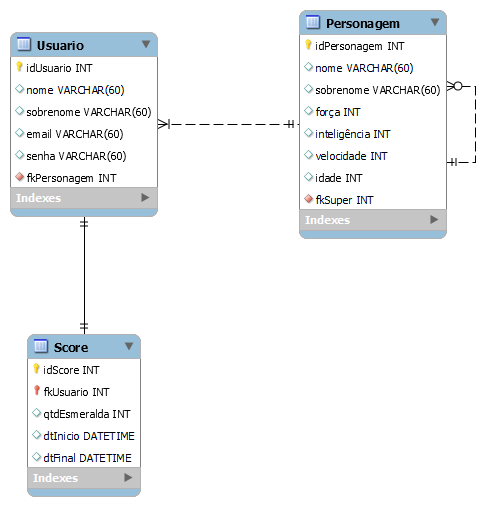
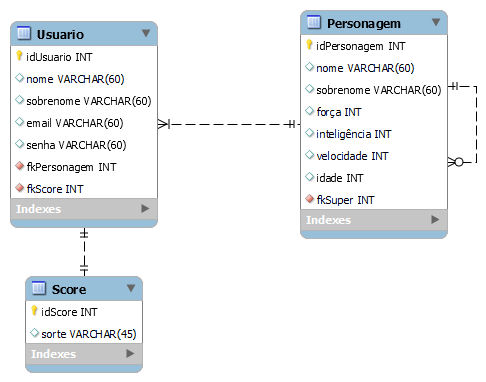
atualizado tudo

Changed region(s): [[0.0, 0.0, 0.9588, 1.0], [0.9278, 0.3168, 0.9897, 0.3455]]

diff --git a/Site Sonic/public/sorte.html b/Site Sonic/public/sorte.html
@@ -8,9 +8,9 @@
     <meta name="viewport" content="width=device-width, initial-scale=1.0">
     <title>Projeto Sonic | Teste de Sorte</title>
 
-    <link rel="stylesheet" href="../public/css/style.css">
+    <link rel="stylesheet" href="./css/style.css">
     <link rel="preconnect" href="https://fonts.gstatic.com">
-    <script src="../js/funcoes.js"></script>
+    <script src="./js/funcoes.js"></script>
 </head>
 
 <!--validarSessao(),-->
@@ -47,11 +47,114 @@
             <div class="btn-logout" onclick="limparSessao()">
                 <h3>Sair</h3>
             </div>
-
         </div>
     </div>
-    
+
+    <div class="right-square">
+        
+        <div class="noticias">
+            
+            <span id="span_btn" style="display: block;">
+            <button class="btn" onclick="btn_sorte()">Clique Aqui!</button>
+            </span>
+
+            <span id="span_msg" style="display: none;"></span></span>    
+
+        </div>
+</div>
     
 </body>
 
 </html>
+
+<script>
+
+
+    function btn_sorte() {
+
+        var x = [];
+        var y = Number(0);
+        var media = Number(0);
+
+        span_btn.style.display = `none`
+        span_msg.style.display = `block`
+
+        for (let i = 0; i < 3; i++) {
+            y = parseInt(Math.random()*100).toFixed(1) 
+            x.push(y)
+            span_msg.innerHTML += `<br>Seu ${i+1}° número foi ${x[0+i]}`
+        }
+
+        media = (Number(x[0]) + Number(x[1]) + Number(x[2])) / 3
+
+        span_msg.innerHTML += `<br>Sua media foi de ${media.toFixed(1)}`
+
+        //obterDadosGrafico(1)
+
+
+    }
+
+// ---------------------------------------- GRÁFICO ------------------------------------------------------ //
+
+function obterDadosGrafico(idUsuario) {
+        
+        fetch(`/medidas/ultimas/${idUsuario}`, { cache: 'no-store' }).then(function (response) {
+            if (response.ok) {
+                response.json().then(function (resposta) {
+                    console.log(`Dados recebidos: ${JSON.stringify(resposta)}`);
+                    resposta.reverse();
+
+                    plotarGrafico(resposta, idUsuario);
+                });
+            } else {
+                console.error('Nenhum dado encontrado ou erro na API');
+            }
+        })
+            .catch(function (error) {
+                console.error(`Erro na obtenção dos dados p/ gráfico: ${error.message}`);
+            });
+    }
+
+    function plotarGrafico(resposta, idUsuario) {
+        console.log('iniciando plotagem do gráfico...');
+
+        var dados = {
+            type: 'bar',
+            labels: [],
+                datasets: [{
+                    label: 'Resultado da Sorte',
+                    backgroundColor: ['grey','red','green', 'blue','yellow', 'purple', 'orange', 'pink', 'gray', 'black', 'violet'],
+                    borderColor: [],
+                    data: [],
+                }]
+        };
+
+        for (i = 0; i < resposta.length; i++) {
+            var registro = resposta[i];
+            dados.labels.push(registro.sorte);
+            dados.datasets[0].data.push(registro.Testes);
+        }
+
+        console.log(JSON.stringify(dados));
+
+        var ctx = document.getElementById('canvas_grafico').getContext('2d');
+        window.myChart = new Chart(ctx, {
+            type: "bar",
+            data: dados,
+            options: {
+                scales: {
+                    yAxes: [
+                        {
+                            ticks: {
+                                beginAtZero: true,
+                            },
+                        },
+                    ],
+                },
+            },
+        });
+    }
+
+
+
+</script>

diff --git a/Site Sonic/public/noticias.html b/Site Sonic/public/noticias.html
@@ -8,9 +8,9 @@
     <meta name="viewport" content="width=device-width, initial-scale=1.0">
     <title>Projeto Sonic | Noticias</title>
 
-    <link rel="stylesheet" href="../public/css/style.css">
+    <link rel="stylesheet" href="./css/style.css">
     <link rel="preconnect" href="https://fonts.gstatic.com">
-    <script src="../js/funcoes.js"></script>
+    <script src="./js/funcoes.js"></script>
 </head>
 
 <!--validarSessao(),-->
@@ -23,7 +23,7 @@
             <h1>Projeto Sonic</h1>
 
             <div class="hello">
-                <h3>Seja Muito Bem Vindo, <span id="b_usuario">usuário</span>!!!</h3>
+                <h3>Seja Muito Bem Vindo, <span id="b_usuario"></span>!!!</h3>
             </div>
 
             <div class="btn-nav-white">
@@ -51,7 +51,11 @@
     </div>
 
     <div class="right-square">
-    kjzcnkjjzxlkjcxcnkzxjczxczxjcnzxjkczxcnzxjcbzxkjcnxz
+        
+            <div class="noticias">
+                <h1>Trailer Sonic Frontiers</h1>
+                <iframe width="560" height="315" src="https://www.youtube.com/embed/RRkKZG1z9PY" title="YouTube video player" frameborder="0" allow="accelerometer; autoplay; clipboard-write; encrypted-media; gyroscope; picture-in-picture" allowfullscreen></iframe>
+            </div>
     </div>
     
 </body>

diff --git a/Site Sonic/src/models/medidaModel.js b/Site Sonic/src/models/medidaModel.js
@@ -1,6 +1,6 @@
 var database = require("../database/config");
 
-function buscarUltimasMedidas(idAquario, limite_linhas) {
+function buscarUltimasMedidas(sorte) {
     
     instrucaoSql = ''
     
@@ -14,14 +14,7 @@ function buscarUltimasMedidas(idAquario, limite_linhas) {
                     where fk_aquario = ${idAquario}
                     order by id desc`;
     } else if (process.env.AMBIENTE_PROCESSO == "desenvolvimento") {
-        instrucaoSql = `select 
-                        temperatura, 
-                        umidade, 
-                        momento,
-                        DATE_FORMAT(momento,'%H:%i:%s') as momento_grafico
-                    from medida
-                    where fk_aquario = ${idAquario}
-                    order by id desc limit ${limite_linhas}`;
+        instrucaoSql = `SELECT SUM(score.sorte) AS Sorte, count(idUsuario) AS 'Testes' FROM score JOIN Usuario ON fkScore = idScore group by fkScore;`
     } else {
         console.log("\nO AMBIENTE (produção OU desenvolvimento) NÃO FOI DEFINIDO EM app.js\n");
         return

diff --git a/Site Sonic/public/css/style.css b/Site Sonic/public/css/style.css
@@ -426,11 +426,42 @@ body::-webkit-scrollbar-thumb {
 }
 
 .right-square{
-  color: black;
   margin-left: 25%;
-  background-color: white;
-  height: 650px;
+  height: 615px;
   width: 74.5%;
   border: blue 3px solid;
+  background-image: url('../assets/imgs/noticias-background.jpg');
+  background-size: 100%;
+  display: flex;
+  justify-content: center;
+  align-items: center; 
+}
 
+.noticias{
+    background-color: rgba(0, 0, 0, 0.6);
+    margin-left: 50px;
+    width: 75%;
+    height: 85%;
+    border: yellow 3px solid;
+    display: flex;
+    flex-direction: row;
+    justify-content: center;
+    border-radius: 15px;
+    color: white;
+    font-size: 25px;
+    flex-wrap: wrap;
+}
+
+.jogar{
+  background-color: rgba(0, 0, 0, 0.6);
+  margin-left: 50px;
+  width: 75%;
+  height: 85%;
+  border: yellow 3px solid;
+  display: flex;
+  flex-direction: row;
+  justify-content: center;
+  color: white;
+  font-size: 25px;
+  flex-wrap: wrap;
 }

diff --git a/Site Sonic/public/jogar.html b/Site Sonic/public/jogar.html
@@ -8,9 +8,9 @@
     <meta name="viewport" content="width=device-width, initial-scale=1.0">
     <title>Projeto Sonic | Minigames</title>
 
-    <link rel="stylesheet" href="../public/css/style.css">
+    <link rel="stylesheet" href="./css/style.css">
     <link rel="preconnect" href="https://fonts.gstatic.com">
-    <script src="../js/funcoes.js"></script>
+    <script src="./js/funcoes.js"></script>
 </head>
 
 <!--validarSessao(),-->
@@ -49,6 +49,13 @@
             </div>
         </div>
     </div>
+
+    <div class="right-square">
+        
+        <div class="jogar">
+            <iframe src="https://www.retrogames.cc/embed/17236-sonic-the-hedgehog-2-world-rev-a.html" width="100%" height="100%" frameborder="no" allowfullscreen="true" webkitallowfullscreen="true" mozallowfullscreen="true" scrolling="no"></iframe>
+        </div>
+</div>
 
     
 </body>

diff --git a/Site Sonic/src/controllers/medidaController.js b/Site Sonic/src/controllers/medidaController.js
@@ -2,13 +2,11 @@ var medidaModel = require("../models/medidaModel");
 
 function buscarUltimasMedidas(req, res) {
 
-    const limite_linhas = 7;
+    var sorte = req.params.sorte;
 
-    var idAquario = req.params.idAquario;
+    console.log(`Recuperando as ultimas  medidas`);
 
-    console.log(`Recuperando as ultimas ${limite_linhas} medidas`);
-
-    medidaModel.buscarUltimasMedidas(idAquario, limite_linhas).then(function (resultado) {
+    medidaModel.buscarUltimasMedidas(sorte).then(function (resultado) {
         if (resultado.length > 0) {
             res.status(200).json(resultado);
         } else {

diff --git a/Site Sonic/src/routes/medidas.js b/Site Sonic/src/routes/medidas.js
@@ -3,11 +3,11 @@ var router = express.Router();
 
 var medidaController = require("../controllers/medidaController");
 
-router.get("/ultimas/:idAquario", function (req, res) {
+router.get("/ultimas/:sorte", function (req, res) {
     medidaController.buscarUltimasMedidas(req, res);
 });
 
-router.get("/tempo-real/:idAquario", function (req, res) {
+router.get("/tempo-real/:sorte", function (req, res) {
     medidaController.buscarMedidasEmTempoReal(req, res);
 })
 

diff --git a/Site Sonic/src/database/config.js b/Site Sonic/src/database/config.js
@@ -20,9 +20,9 @@ var sqlServerConfig = {
 // CONEXÃO DO MYSQL WORKBENCH (LOCAL)
 var mySqlConfig = {
     host: "localhost",
-    user: "root",
+    user: "aluno",
     database: "ProjetoSonic",
-    password: "19921124Ms@",
+    password: "sptech",
 };
 
 function executar(instrucao) {
